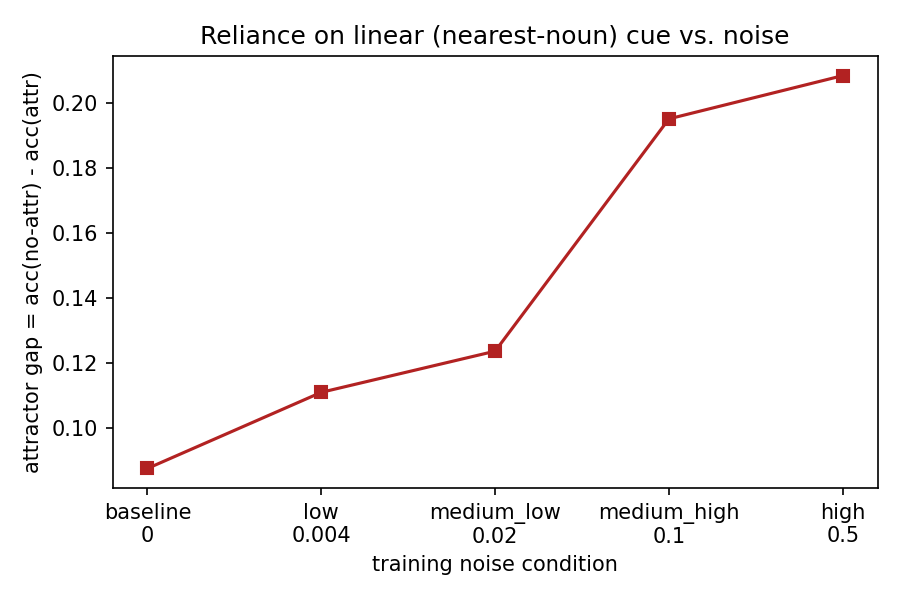
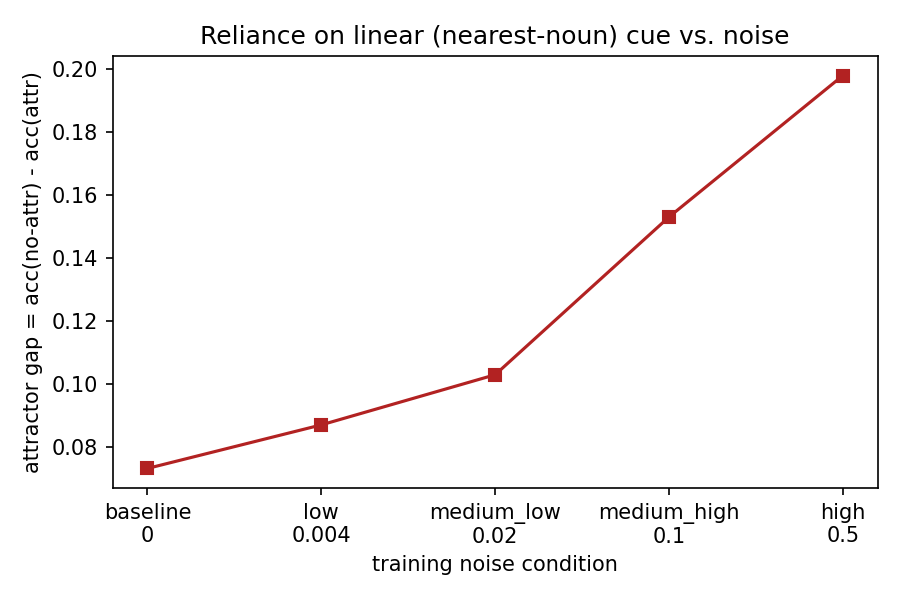
ran 3-seed swap on colab

diff --git a/results/README.md b/results/README.md
@@ -1,31 +1,31 @@
 # Results
 
-Full-scale LSTM run: **150,000 training sentences/condition**, 5 epochs, **seeds {1,2,3}**.
-- Run: `./run_sweep_multiseed.sh` on an M1 Pro (MPS).
+Full-scale LSTM run: **150,000 training sentences/condition**, 5 epochs, **seeds {1,2,3} × 2 runs** (local MPS + Colab T4).
+- Run: `./run_sweep_multiseed.sh` — local M1 Pro (MPS) + Colab T4 (CUDA).
 - Eval: 19,819 held-out minimal pairs (1,528 with attractors), identical across conditions.
-- Values below are **mean ± std over 3 seeds**. Raw per-seed rows: `eval_results.csv`.
+- Values below are **mean ± std over 6 runs**. Raw per-seed rows: `eval_results.csv`.
 - The earlier single-seed 50k validation is preserved in `eval_results_prelim_50k.csv`.
 
 | condition | rate | acc_all | acc_no_attr | acc_attr | gap |
 |---|---|---|---|---|---|
-| baseline   | 0.0   | 0.957 ± 0.005 | 0.963 ± 0.003 | 0.876 ± 0.027 | 0.088 ± 0.024 |
-| low        | 0.004 | 0.951 ± 0.008 | 0.959 ± 0.007 | 0.848 ± 0.025 | 0.111 ± 0.019 |
-| medium_low | 0.02  | 0.942 ± 0.013 | 0.952 ± 0.009 | 0.828 ± 0.057 | 0.124 ± 0.048 |
-| medium_high| 0.10  | 0.920 ± 0.018 | 0.935 ± 0.015 | 0.740 ± 0.048 | 0.195 ± 0.033 |
-| high       | 0.50  | 0.698 ± 0.012 | 0.714 ± 0.014 | 0.506 ± 0.037 | 0.208 ± 0.046 |
+| baseline   | 0.0   | 0.961 ± 0.006 | 0.967 ± 0.004 | 0.894 ± 0.027 | 0.073 ± 0.023 |
+| low        | 0.004 | 0.958 ± 0.009 | 0.965 ± 0.007 | 0.878 ± 0.036 | 0.087 ± 0.030 |
+| medium_low | 0.02  | 0.952 ± 0.014 | 0.960 ± 0.011 | 0.857 ± 0.048 | 0.103 ± 0.038 |
+| medium_high| 0.10  | 0.934 ± 0.020 | 0.946 ± 0.016 | 0.793 ± 0.066 | 0.153 ± 0.051 |
+| high       | 0.50  | 0.708 ± 0.018 | 0.723 ± 0.019 | 0.525 ± 0.032 | 0.198 ± 0.033 |
 
 ## Reading the result
 
-- **Overall accuracy degrades monotonically with noise** (0.957 → 0.698), with the sharp
+- **Overall accuracy degrades monotonically with noise** (0.961 → 0.708), with the sharp
   drop concentrated between 10% and 50% — small amounts of agreement noise are tolerated;
   large amounts break the model.
 - **Attractor cases erode first and fastest.** Accuracy on pairs with an intervening
-  attractor noun falls from 0.876 to chance (0.506) at 50% noise, while no-attractor
+  attractor noun falls from 0.894 to 0.525 at 50% noise, while no-attractor
   accuracy stays high until the 50% condition.
-- **The attractor gap grows monotonically** (0.088 → 0.208): as noise rises, the model
+- **The attractor gap grows monotonically** (0.073 → 0.198): as noise rises, the model
   leans harder on the linear (nearest-noun) heuristic over the hierarchical (true-subject)
   rule. Unlike the 50k single-seed prelim — where the gap *shrank* at 50% because both
-  cells floored — at full scale the no-attractor cell hasn't floored (0.714), so the gap
+  cells floored — at full scale the no-attractor cell hasn't floored (0.723), so the gap
   stays wide and the hierarchy-erosion story reads cleanly.
 
 Figures (regenerated from the multiseed run, averaged over seeds):

diff --git a/CONTRIBUTIONS.md b/CONTRIBUTIONS.md
@@ -43,9 +43,14 @@ short.
   minimal-pair eval on each one.
 - **2026-06-01** — Ran the evals across all five noise levels and looked at how
   the models did — overall accuracy, plus accuracy with and without an attractor.
-  The local seed-1 trend is what we hoped for: the model does well on clean data
-  (~0.96 overall) and steadily worse as we add noise (down to ~0.69 at the
-  worst), and the attractor cases are consistently the tougher ones.
+  The trend is what we hoped for: the model does well on clean data and steadily
+  worse as we add noise, and the attractor cases are consistently the tougher ones.
+- **2026-06-01** — Ran the full 3-seed sweep on Colab (T4, 150k sentences each)
+  and pulled the results together with the earlier sweep — 6 runs per condition
+  in total. The noise effect is really clear: accuracy drops from ~0.96 at
+  baseline down to ~0.71 at the highest noise rate, and the attractor gap nearly
+  triples, meaning the model leans more on the nearest-noun shortcut the noisier
+  the training data gets. Updated `results/eval_results.csv` and the figures.
 
 ---
 ### Areas of ownership (from proposal)